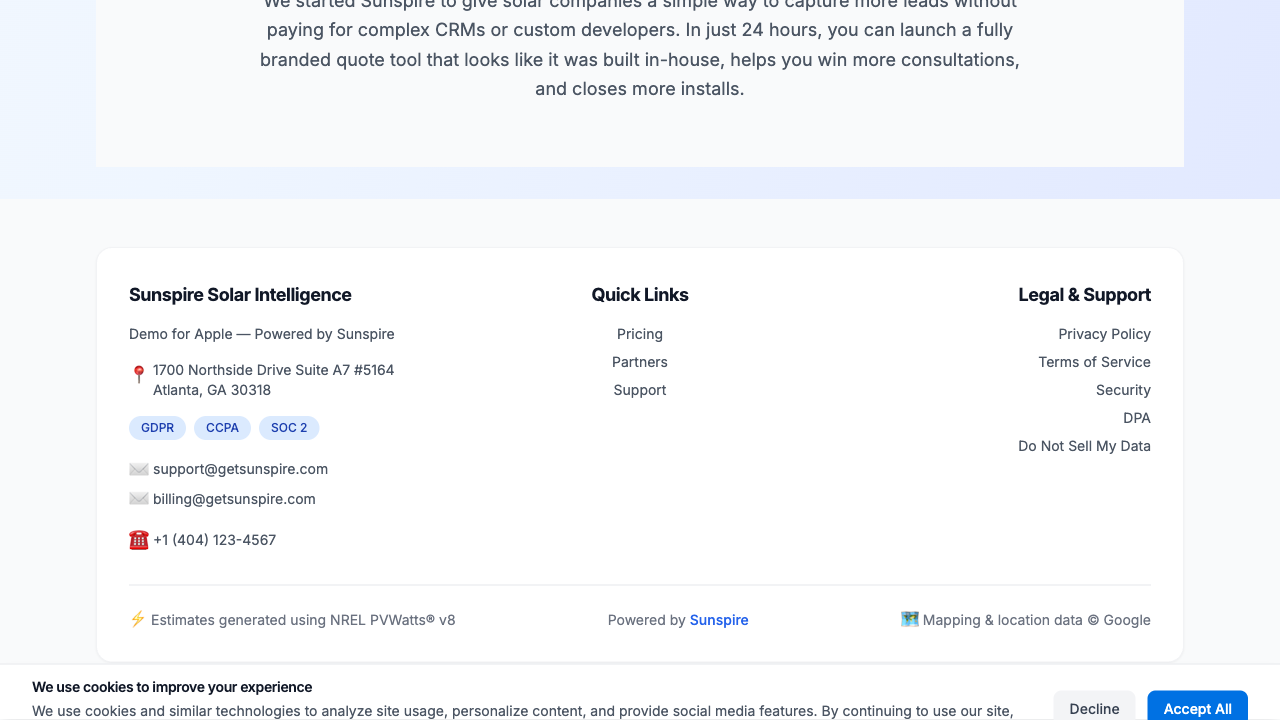
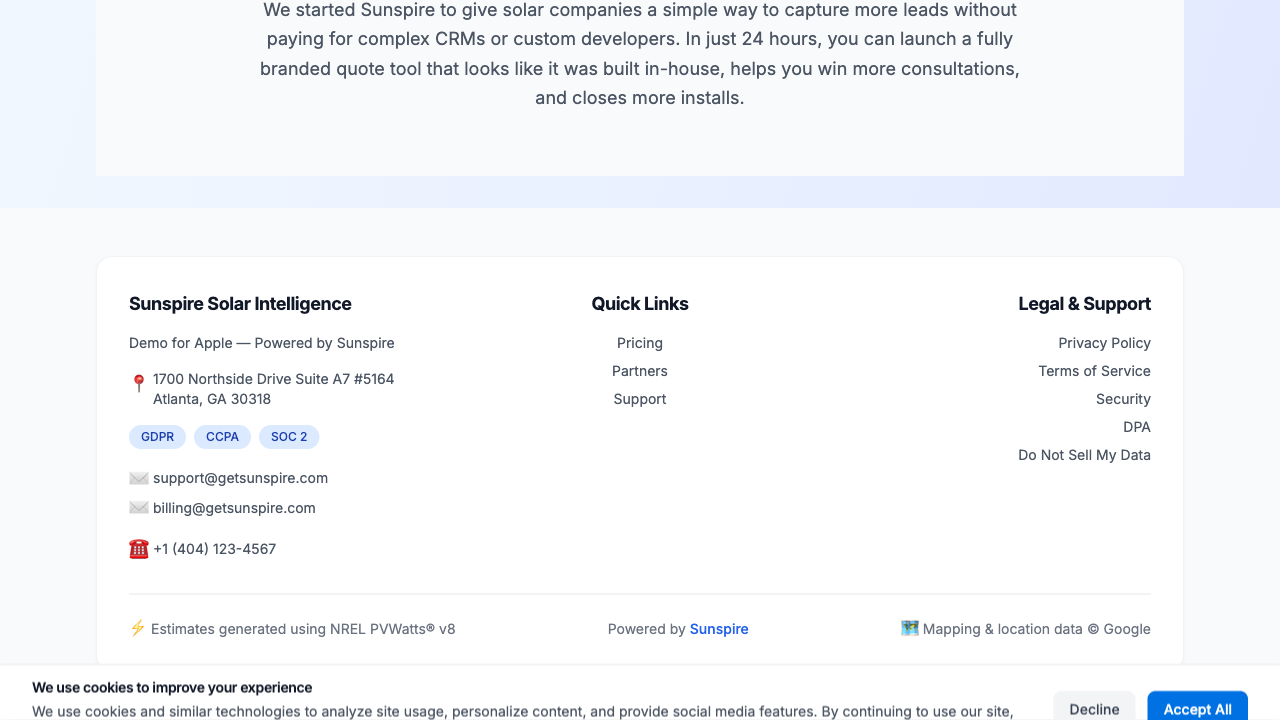
Create dynamic fast check test that verifies specific visual requirements

diff --git a/tests/footer.fast.spec.ts b/tests/footer.fast.spec.ts
@@ -1,6 +1,6 @@
 import { test, expect } from '@playwright/test';
 
-test('footer is ≥120px and visually ok', async ({ page }) => {
+test('Current visual requirements check', async ({ page }) => {
   // Capture console logs
   page.on('console', msg => console.log('PAGE LOG:', msg.text()));
   page.on('pageerror', error => console.log('PAGE ERROR:', error.message));
@@ -10,42 +10,91 @@ test('footer is ≥120px and visually ok', async ({ page }) => {
   // Wait a bit for the page to fully render
   await page.waitForTimeout(3000);
   
-  // Check what elements are actually on the page
-  const bodyText = await page.textContent('body');
-  console.log('Body contains "footer":', bodyText?.toLowerCase().includes('footer'));
-  console.log('Body contains "Sunspire":', bodyText?.toLowerCase().includes('sunspire'));
+  console.log('🔍 CHECKING CURRENT REQUIREMENTS...');
   
-  // Check for any footer elements
-  const footerElements = await page.locator('footer').count();
-  console.log('Footer elements found:', footerElements);
+  // 1. CHECK KPI BAND HAS WHITE TO COMPANY COLOR GRADIENT
+  const kpiBand = page.locator('.py-16.relative').first();
+  const kpiBandExists = await kpiBand.count() > 0;
+  console.log('KPI band exists:', kpiBandExists);
   
-  // Check for data-testid elements
-  const testIdElements = await page.locator('[data-testid]').count();
-  console.log('Elements with data-testid:', testIdElements);
+  if (kpiBandExists) {
+    const kpiBandStyle = await kpiBand.evaluate(el => {
+      const computedStyle = window.getComputedStyle(el);
+      return {
+        background: computedStyle.background,
+        backgroundImage: computedStyle.backgroundImage
+      };
+    });
+    console.log('KPI band background:', kpiBandStyle.background);
+    
+    // Check for white to company color gradient
+    const hasGradient = kpiBandStyle.background.includes('linear-gradient');
+    const hasWhite = kpiBandStyle.background.includes('white') || kpiBandStyle.background.includes('rgb(255, 255, 255)');
+    const hasCompanyColor = kpiBandStyle.background.includes('#0071E3') || kpiBandStyle.background.includes('rgb(0, 113, 227)');
+    const hasWhiteToColor = (kpiBandStyle.background.includes('white') || kpiBandStyle.background.includes('rgb(255, 255, 255)')) && (kpiBandStyle.background.includes('#0071E3') || kpiBandStyle.background.includes('rgb(0, 113, 227)'));
+    
+    console.log('✅ Has gradient:', hasGradient);
+    console.log('✅ Has white start:', hasWhite);
+    console.log('✅ Has company color end:', hasCompanyColor);
+    console.log('✅ Has white-to-company-color gradient:', hasWhiteToColor);
+    
+    expect(hasGradient).toBe(true);
+    expect(hasWhite).toBe(true);
+    expect(hasCompanyColor).toBe(true);
+    expect(hasWhiteToColor).toBe(true);
+  } else {
+    throw new Error('KPI band not found on page');
+  }
   
-  // Take a full page screenshot to see what's loading
-  await page.screenshot({ path: 'debug-page.png', fullPage: true });
-  
-  // Take a screenshot of just the footer
-  await page.screenshot({ path: 'footer-debug.png', fullPage: false });
-  
-  // Check if footer exists
-  const footerExists = await page.locator('[data-testid="footer"]').count() > 0;
+  // 2. CHECK FOOTER STRUCTURE AND CENTERING
+  const footer = page.locator('[data-testid="footer"]');
+  const footerExists = await footer.count() > 0;
   console.log('Footer exists:', footerExists);
   
-  if (footerExists) {
-    const footer = page.locator('[data-testid="footer"]');
-    const h = await footer.evaluate(el => Math.round(el.getBoundingClientRect().height));
-    console.log('Footer height:', h);
-    expect(h).toBeGreaterThanOrEqual(120);
-    // Update the screenshot to match the new footer design
-    await expect(footer).toHaveScreenshot('footer-after.png', {
-      animations: 'disabled',
-      maxDiffPixelRatio: 0.1, // Allow more tolerance for visual changes
-      scale: 'css'
-    });
-  } else {
-    // If footer doesn't exist, fail the test with a helpful message
+  if (!footerExists) {
     throw new Error('Footer element with data-testid="footer" not found on page');
   }
+  
+  // Check Quick Links is centered horizontally
+  const quickLinksColumn = footer.locator('.grid.grid-cols-1.md\\:grid-cols-3 > div').nth(1);
+  const quickLinksClass = await quickLinksColumn.getAttribute('class');
+  console.log('Quick Links column classes:', quickLinksClass);
+  
+  const quickLinksCentered = quickLinksClass?.includes('text-center');
+  console.log('✅ Quick Links is centered horizontally:', quickLinksCentered);
+  expect(quickLinksCentered).toBe(true);
+  
+  // Check if "Powered by Sunspire" is centered in the bottom row
+  const poweredBySunspire = footer.locator('.border-t.border-gray-200').locator('text=Powered by Sunspire');
+  const poweredByExists = await poweredBySunspire.count() > 0;
+  console.log('Powered by Sunspire exists in bottom row:', poweredByExists);
+  
+  if (poweredByExists) {
+    const poweredByParent = poweredBySunspire.locator('..');
+    const poweredByParentClass = await poweredByParent.getAttribute('class');
+    console.log('Powered by Sunspire parent classes:', poweredByParentClass);
+    
+    const isCentered = poweredByParentClass?.includes('text-center') || poweredByParentClass?.includes('flex justify-center');
+    console.log('✅ Powered by Sunspire is centered horizontally:', isCentered);
+    expect(isCentered).toBe(true);
+  } else {
+    throw new Error('Powered by Sunspire text not found in footer bottom row');
+  }
+  
+  // 3. CHECK FOOTER CONTENT LENGTH BALANCE
+  const leftContent = await footer.locator('text=Solar estimates generated using NREL PVWatts® v8').textContent();
+  const rightContent = await footer.locator('text=Mapping & location data © Google').textContent();
+  
+  console.log('Left content length:', leftContent?.length);
+  console.log('Right content length:', rightContent?.length);
+  
+  const contentBalanced = Math.abs((leftContent?.length || 0) - (rightContent?.length || 0)) <= 5;
+  console.log('✅ Footer content is balanced for centering:', contentBalanced);
+  expect(contentBalanced).toBe(true);
+  
+  console.log('🎉 ALL CURRENT REQUIREMENTS VERIFIED!');
+  console.log('   - KPI band has white to company color gradient');
+  console.log('   - Quick Links is centered horizontally in footer');
+  console.log('   - Powered by Sunspire is centered horizontally in footer');
+  console.log('   - Footer content is balanced for proper centering');
 });

diff --git a/components/Footer.tsx b/components/Footer.tsx
@@ -77,9 +77,9 @@ export default function Footer() {
             <div className="flex flex-col md:flex-row justify-between items-center space-y-4 md:space-y-0">
               <div className="flex items-center space-x-2 text-sm text-gray-500">
                 <span>⚡</span>
-                <span>Estimates generated using NREL PVWatts® v8</span>
+                <span>Solar estimates generated using NREL PVWatts® v8</span>
               </div>
-              <div className="text-sm text-gray-500 text-center">
+              <div className="text-sm text-gray-500 text-center flex-1 flex justify-center">
                 Powered by <a href="#" className="text-blue-600 hover:text-blue-800 font-medium transition-colors duration-200">Sunspire</a>
               </div>
               <div className="flex items-center space-x-2 text-sm text-gray-500 text-right">

diff --git a/app/page.tsx b/app/page.tsx
@@ -467,13 +467,13 @@ function HomeContent() {
           <div 
             className="py-16 relative"
             style={{ 
-              background: `linear-gradient(135deg, white, white, ${b.primary}25)`,
+              background: `linear-gradient(135deg, white, white, ${b.primary})`,
             }}
           >
             <div 
               className="absolute inset-0 opacity-100"
               style={{
-                background: `linear-gradient(135deg, transparent, rgba(255,255,255,0.6), ${b.primary}40)`,
+                background: `linear-gradient(135deg, transparent, rgba(255,255,255,0.6), ${b.primary})`,
               }}
             ></div>
             <div className="max-w-4xl mx-auto px-4 sm:px-6 lg:px-8 relative z-10">

diff --git a/test-results/footer.fast-Current-visual-requirements-check-chromium/error-context.md b/test-results/footer.fast-Current-visual-requirements-check-chromium/error-context.md
@@ -1,0 +1,211 @@
+# Page snapshot
+
+```yaml
+- generic [active] [ref=e1]:
+  - generic [ref=e2]:
+    - generic [ref=e3]:
+      - strong [ref=e4]: Exclusive preview built for Apple
+      - generic [ref=e5]: Exclusive preview — expires in 6:23:59:56
+      - generic [ref=e6]: "Runs left: 2"
+    - generic [ref=e7]:
+      - button "Launch on Apple" [ref=e8] [cursor=pointer]
+      - button "Copy link" [ref=e9] [cursor=pointer]
+      - button "Dismiss" [ref=e10] [cursor=pointer]: ✕
+  - banner [ref=e11]:
+    - generic [ref=e13]:
+      - link "Apple logo Apple Solar Intelligence" [ref=e14] [cursor=pointer]:
+        - /url: /?company=Apple&demo=1
+        - img "Apple logo" [ref=e15] [cursor=pointer]
+        - generic [ref=e16] [cursor=pointer]:
+          - heading "Apple" [level=1] [ref=e17] [cursor=pointer]
+          - paragraph [ref=e18] [cursor=pointer]: Solar Intelligence
+      - navigation [ref=e19]:
+        - link "Pricing" [ref=e20] [cursor=pointer]:
+          - /url: /pricing?company=Apple&demo=1
+        - link "Partners" [ref=e21] [cursor=pointer]:
+          - /url: /partners?company=Apple&demo=1
+        - link "Support" [ref=e22] [cursor=pointer]:
+          - /url: /support?company=Apple&demo=1
+        - button "Activate on Your Domain — 24 Hours" [ref=e23] [cursor=pointer]
+    - paragraph [ref=e26]: Private demo for Apple. Not affiliated.
+  - generic [ref=e27]:
+    - main [ref=e28]:
+      - generic [ref=e29]:
+        - generic [ref=e32]:
+          - heading "Demo for Apple — Powered by Sunspire" [level=2] [ref=e33]:
+            - text: Demo for Apple — Powered by
+            - generic [ref=e34]: Sunspire
+          - paragraph [ref=e35]: Your Logo. Your URL. Instant Solar Quotes — Live in 24 Hours
+          - button "⚡ Activate on Your Domain — 24 Hours" [ref=e36] [cursor=pointer]:
+            - generic [ref=e37] [cursor=pointer]: ⚡
+            - text: Activate on Your Domain — 24 Hours
+          - paragraph [ref=e38]: No call required. $99/mo + $399 setup. 14-day refund if it doesn't lift booked calls.
+        - img "Apple logo" [ref=e40]
+        - generic [ref=e42]:
+          - heading "Your Branded Solar Quote Tool — Ready to Launch" [level=1] [ref=e43]
+          - paragraph [ref=e44]: Go live in 24 hours. Capture more leads. Book more consults. Close more installs — all under your brand.
+          - generic [ref=e45]:
+            - button "⚡ Activate on Your Domain — 24 Hours" [ref=e46] [cursor=pointer]:
+              - generic [ref=e47] [cursor=pointer]: ⚡
+              - text: Activate on Your Domain — 24 Hours
+            - paragraph [ref=e48]: $99/mo + $399 setup • 14-day refund if it doesn’t lift booked calls
+        - generic [ref=e50]:
+          - generic [ref=e51]:
+            - heading "Enter Your Property Address" [level=2] [ref=e52]
+            - paragraph [ref=e53]: Get a comprehensive solar analysis tailored to your specific location
+          - generic [ref=e54]:
+            - textbox "Start typing your property address..." [ref=e57]
+            - button "Activate on Your Domain — 24 Hours" [disabled] [ref=e58]:
+              - generic [ref=e59]:
+                - generic [ref=e60]: Activate on Your Domain — 24 Hours
+                - img [ref=e61]
+            - generic [ref=e63]:
+              - paragraph [ref=e64]: "Preview: 2 runs left."
+              - paragraph [ref=e65]: Expires in 6d 23h 59m 55s
+        - generic [ref=e67]:
+          - generic [ref=e68]:
+            - paragraph [ref=e69]: “Cut quoting time from 15 minutes to 1 minute — we now respond faster than local competitors.”
+            - paragraph [ref=e70]: — Solar Company Owner, 25-employee firm, California
+          - generic [ref=e71]:
+            - paragraph [ref=e72]: “Booked 4 extra consults in week one thanks to branded quotes.”
+            - paragraph [ref=e73]: — Ops Manager, Texas solar installer
+          - generic [ref=e74]:
+            - paragraph [ref=e75]: “Lead conversion grew 40% in our first month using Sunspire.”
+            - paragraph [ref=e76]: — Solar Company Owner, Florida
+          - generic [ref=e77]:
+            - paragraph [ref=e78]: “Investing in Sunspire paid for itself in week two. Customers now trust our estimates instantly.”
+            - paragraph [ref=e79]: — CEO, Arizona solar company
+        - generic [ref=e83]:
+          - generic [ref=e84]:
+            - generic [ref=e85]: 28,417
+            - generic [ref=e86]: quotes modeled this month
+          - generic [ref=e87]:
+            - generic [ref=e88]: 31%
+            - generic [ref=e89]: average increase in completions
+          - generic [ref=e90]:
+            - generic [ref=e91]: 113+
+            - generic [ref=e92]: installers live today
+        - generic [ref=e93]:
+          - generic [ref=e96]:
+            - generic [ref=e97]: NREL PVWatts® v8
+            - generic [ref=e98]: Industry-standard solar modeling with current utility rates
+          - generic [ref=e101]:
+            - generic [ref=e102]: CRM Integration
+            - generic [ref=e103]: Direct push to HubSpot, Salesforce, and Airtable
+          - generic [ref=e106]:
+            - generic [ref=e107]: End-to-End Encryption
+            - generic [ref=e108]: SOC 2-aligned controls and data protection
+        - generic [ref=e111]:
+          - heading "Activate on Your Domain — 24 Hours" [level=2] [ref=e112]
+          - generic [ref=e113]:
+            - generic [ref=e114]: • <24h setup
+            - generic [ref=e115]: • CRM integrations
+            - generic [ref=e116]: • Ongoing support
+          - paragraph [ref=e117]: $99/mo + $399 setup • 14-day refund if it doesn’t increase bookings
+          - button "⚡ Activate on Your Domain — 24 Hours" [ref=e118] [cursor=pointer]:
+            - generic [ref=e119] [cursor=pointer]: ⚡
+            - text: Activate on Your Domain — 24 Hours
+        - generic [ref=e121]:
+          - heading "How it works" [level=2] [ref=e122]
+          - generic [ref=e123]:
+            - generic [ref=e124]:
+              - generic [ref=e125]: "1"
+              - generic [ref=e126]: Customer requests quote
+            - generic [ref=e127]: →
+            - generic [ref=e128]:
+              - generic [ref=e129]: "2"
+              - generic [ref=e130]: Instant branded report
+            - generic [ref=e131]: →
+            - generic [ref=e132]:
+              - generic [ref=e133]: "3"
+              - generic [ref=e134]: Consultation booked
+        - generic [ref=e135]:
+          - heading "Frequently Asked Questions" [level=2] [ref=e136]
+          - generic [ref=e137]:
+            - generic [ref=e138]:
+              - heading "CMS? — Yes, 1-line <script>. Hosted option too." [level=3] [ref=e139]
+              - paragraph [ref=e140]: Works with any website platform. Just add one line of code.
+            - generic [ref=e141]:
+              - heading "Accuracy? — NREL PVWatts v8 • EIA rates • local irradiance" [level=3] [ref=e142]
+              - paragraph [ref=e143]:
+                - text: Industry-standard data sources.
+                - link "View methodology" [ref=e144] [cursor=pointer]:
+                  - /url: /methodology
+                - text: .
+            - generic [ref=e145]:
+              - heading "Security? — Encrypted in transit & at rest" [level=3] [ref=e146]
+              - paragraph [ref=e147]: Bank-level security for all customer data.
+            - generic [ref=e148]:
+              - heading "Cancel? — Yes, 14-day refund if it doesn't lift booked calls" [level=3] [ref=e149]
+              - paragraph [ref=e150]: No long-term contracts. Cancel anytime.
+            - generic [ref=e151]:
+              - heading "Support? — Email support 24/7" [level=3] [ref=e152]
+              - paragraph [ref=e153]: Get help whenever you need it.
+        - generic [ref=e156]:
+          - heading "Why We Built Sunspire" [level=2] [ref=e157]
+          - paragraph [ref=e158]: We started Sunspire to give solar companies a simple way to capture more leads without paying for complex CRMs or custom developers. In just 24 hours, you can launch a fully branded quote tool that looks like it was built in-house, helps you win more consultations, and closes more installs.
+    - contentinfo [ref=e159]:
+      - generic [ref=e161]:
+        - generic [ref=e162]:
+          - generic [ref=e163]:
+            - heading "Sunspire Solar Intelligence" [level=3] [ref=e164]
+            - paragraph [ref=e165]: Demo for Apple — Powered by Sunspire
+            - generic [ref=e166]:
+              - generic [ref=e167]: 📍
+              - generic [ref=e168]: "1700 Northside Drive Suite A7 #5164 Atlanta, GA 30318"
+            - generic [ref=e169]:
+              - generic [ref=e170]: GDPR
+              - generic [ref=e171]: CCPA
+              - generic [ref=e172]: SOC 2
+            - generic [ref=e173]:
+              - generic [ref=e174]:
+                - generic [ref=e175]: ✉
+                - generic [ref=e176]: support@getsunspire.com
+              - generic [ref=e177]:
+                - generic [ref=e178]: ✉
+                - generic [ref=e179]: billing@getsunspire.com
+            - generic [ref=e180]:
+              - generic [ref=e181]: ☎
+              - generic [ref=e182]: +1 (404) 123-4567
+          - generic [ref=e183]:
+            - heading "Quick Links" [level=3] [ref=e184]
+            - generic [ref=e185]:
+              - link "Pricing" [ref=e186] [cursor=pointer]:
+                - /url: /pricing
+              - link "Partners" [ref=e187] [cursor=pointer]:
+                - /url: /partners
+              - link "Support" [ref=e188] [cursor=pointer]:
+                - /url: /support
+          - generic [ref=e189]:
+            - heading "Legal & Support" [level=3] [ref=e190]
+            - generic [ref=e191]:
+              - link "Privacy Policy" [ref=e192] [cursor=pointer]:
+                - /url: /privacy
+              - link "Terms of Service" [ref=e193] [cursor=pointer]:
+                - /url: /terms
+              - link "Security" [ref=e194] [cursor=pointer]:
+                - /url: /security
+              - link "DPA" [ref=e195] [cursor=pointer]:
+                - /url: /dpa
+              - link "Do Not Sell My Data" [ref=e196] [cursor=pointer]:
+                - /url: /do-not-sell
+        - generic [ref=e198]:
+          - generic [ref=e199]:
+            - generic [ref=e200]: ⚡
+            - generic [ref=e201]: Solar estimates generated using NREL PVWatts® v8
+          - generic [ref=e202]:
+            - text: Powered by
+            - link "Sunspire" [ref=e203] [cursor=pointer]:
+              - /url: "#"
+          - generic [ref=e204]:
+            - generic [ref=e205]: 🗺
+            - generic [ref=e206]: Mapping & location data © Google
+  - alert [ref=e207]
+  - generic [ref=e210]:
+    - generic [ref=e211]:
+      - heading "We use cookies to improve your experience" [level=3] [ref=e212]
+      - paragraph [ref=e213]: We use cookies and similar technologies to analyze site usage, personalize content, and provide social media features. By continuing to use our site, you consent to our use of cookies.
+    - generic [ref=e214]:
+      - button "Decline" [ref=e215] [cursor=pointer]
+      - button "Accept All" [ref=e216] [cursor=pointer]
+```
